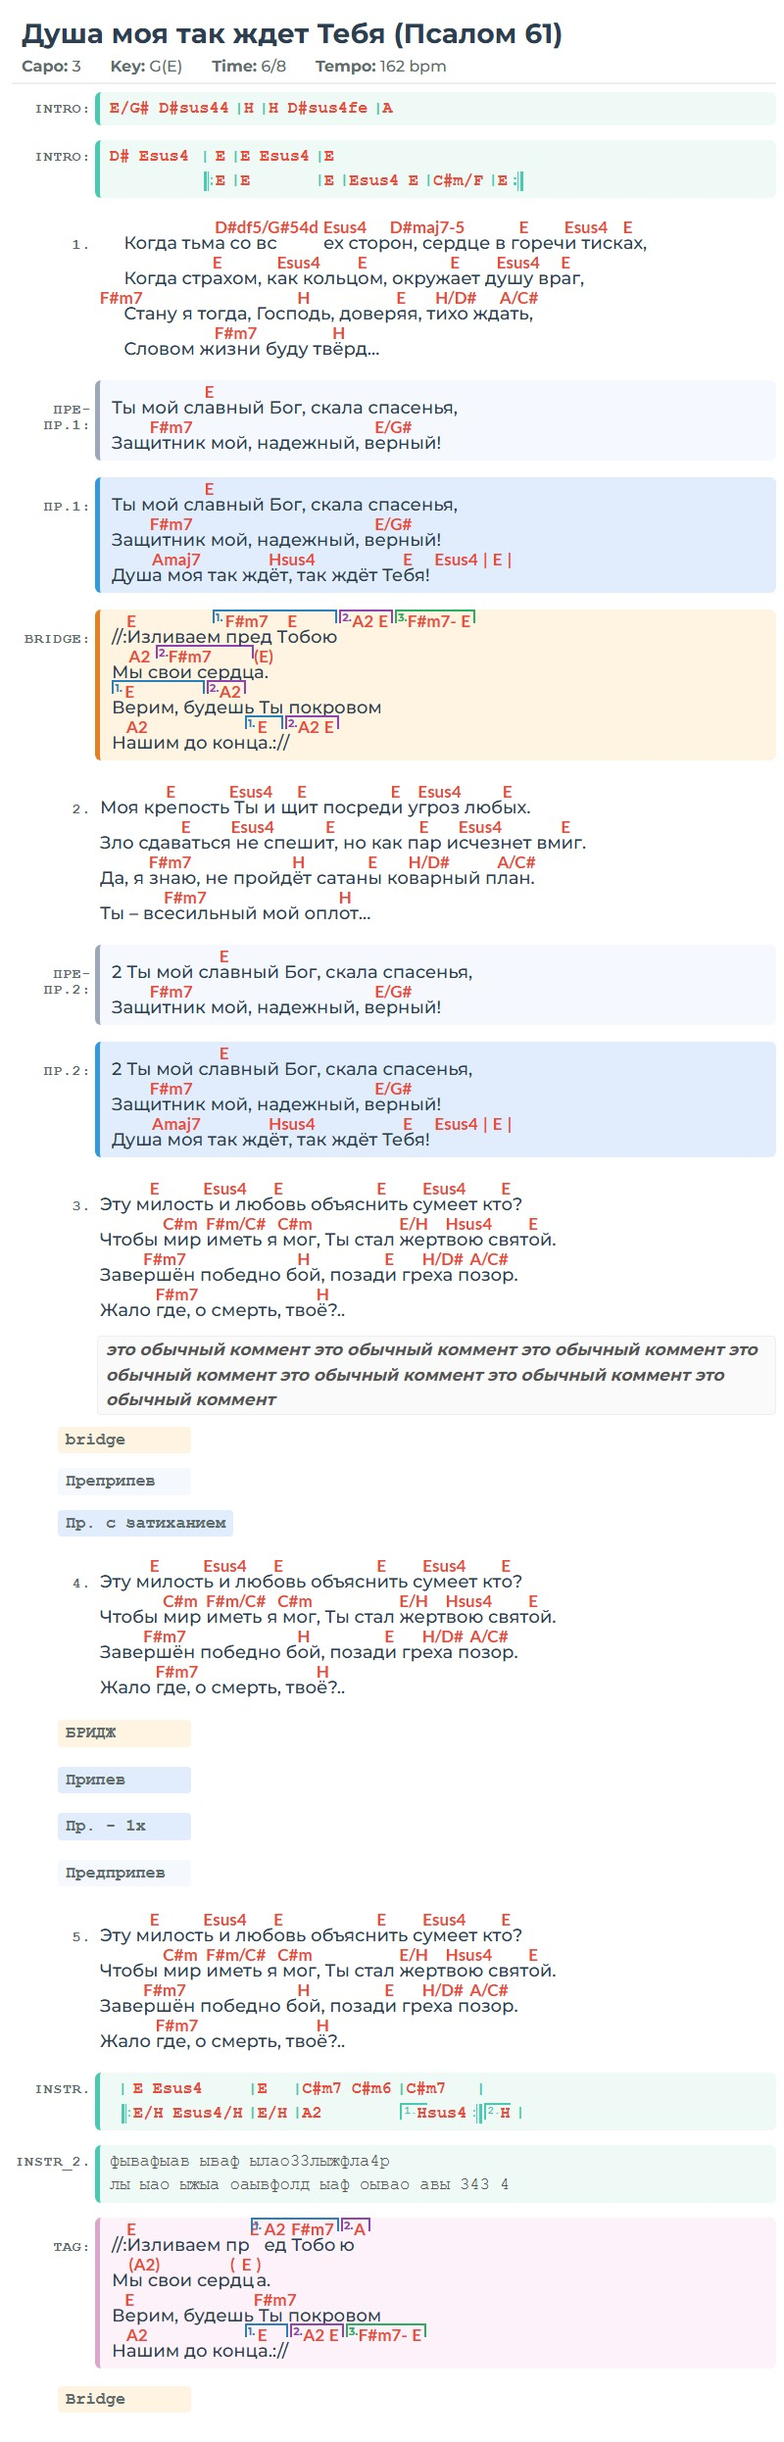
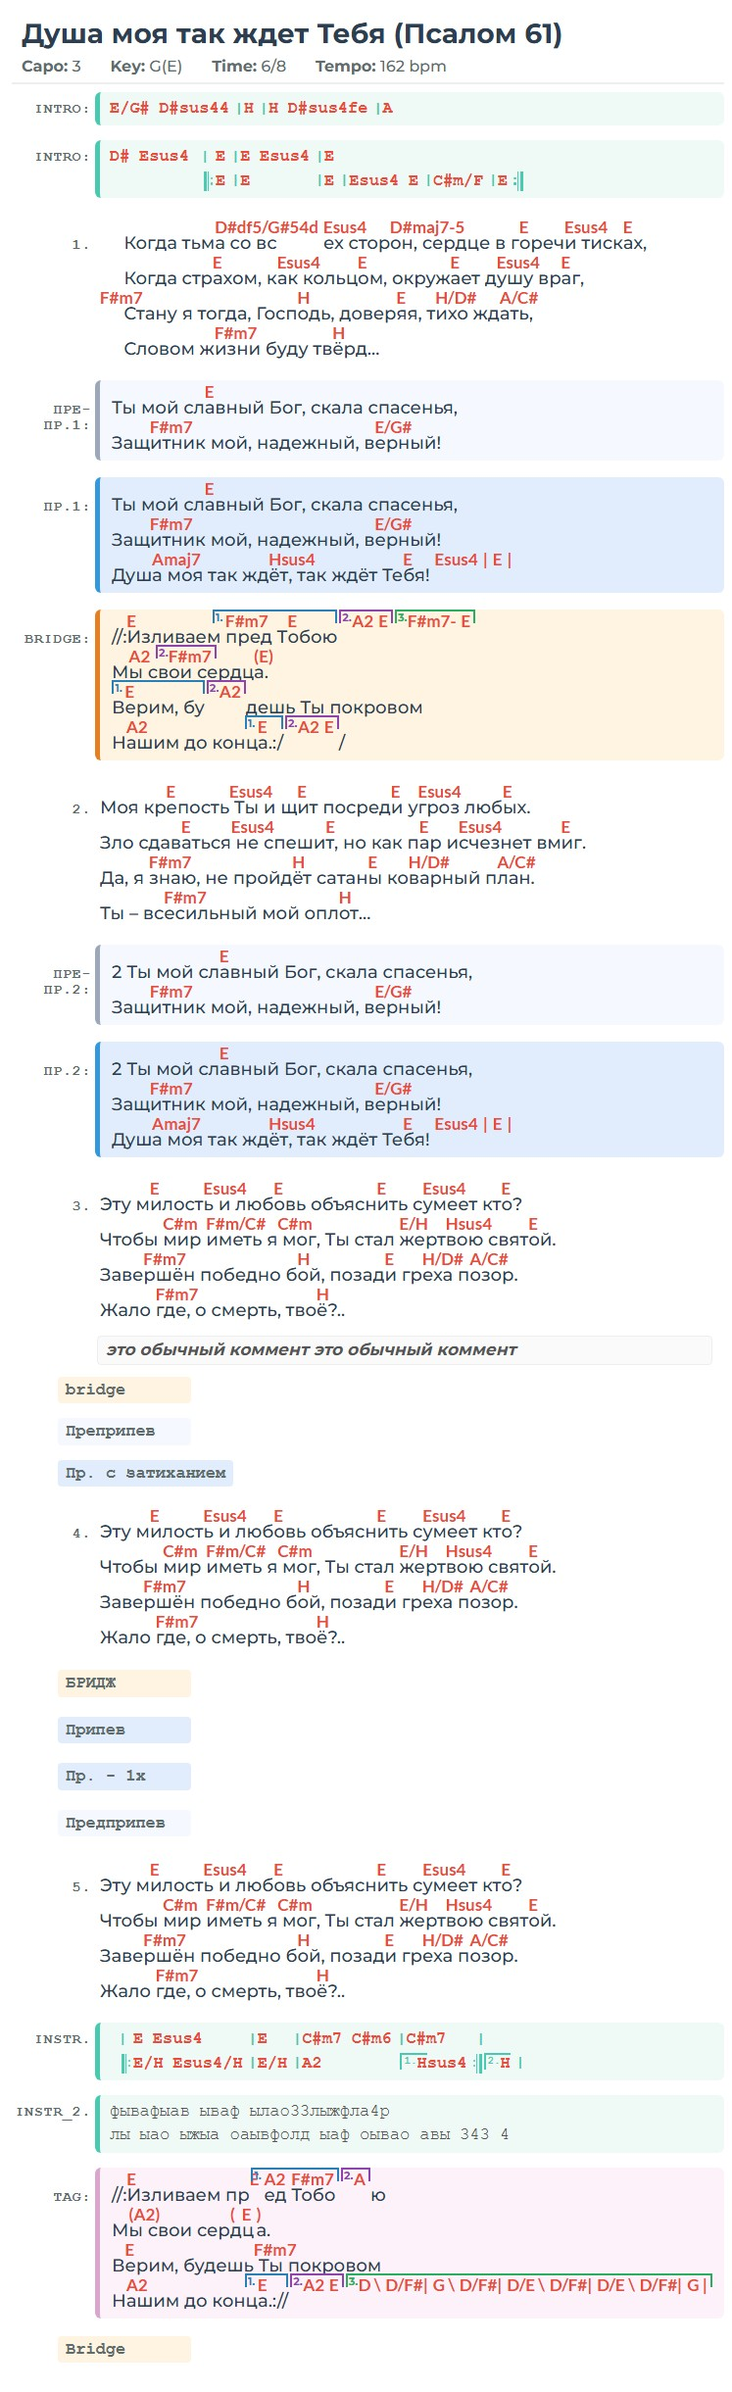
Переделал вольты. Добавил самостоятельные. И 2е не идут в конец.

diff --git a/output_jpg/Душа моя так ждёт Тебя.chordpro.html b/output_jpg/Душа моя так ждёт Тебя.chordpro.html
@@ -743,13 +743,15 @@
                             
                                 
                                     
-                                        <span class="volta-span volta-1">
-                                            <span class="volta-number">1.</span>
-                                            
-                                                <span class="chord-wrapper"><span class="chord">F#m7</span><span class="lyrics">пред Т</span></span>
-                                            
-                                                <span class="chord-wrapper"><span class="chord">E</span><span class="lyrics">обою</span></span>
-                                            
+                                        <span class="volta-flow">
+                                            <span class="volta-span volta-1">
+                                                <span class="volta-number">1.</span>
+                                                
+                                                    <span class="chord-wrapper"><span class="chord">F#m7</span><span class="lyrics">пред Т</span></span>
+                                                
+                                                    <span class="chord-wrapper"><span class="chord">E</span><span class="lyrics">обою</span></span>
+                                                
+                                            </span>
 
                                             
                                                 <span class="volta-stack">
@@ -829,12 +831,11 @@
                             
                                 
                                     
-                                        <span class="volta-span volta-2">
+                                        
+                                        <span class="volta-span volta-2 standalone">
                                             <span class="volta-number">2.</span>
                                             
-                                                <span class="chord-wrapper"><span class="chord">F#m7</span><span class="lyrics">ои сердц</span></span>
-                                            
-
+                                                <span class="chord-wrapper"><span class="chord standalone-head-chord">F#m7</span><span class="lyrics">ои сердц</span></span>
                                             
                                         </span>
                                     
@@ -857,11 +858,13 @@
                             
                                 
                                     
-                                        <span class="volta-span volta-1">
-                                            <span class="volta-number">1.</span>
-                                            
-                                                <span class="chord-wrapper"><span class="chord">E</span><span class="lyrics">ерим, бу</span></span>
-                                            
+                                        <span class="volta-flow">
+                                            <span class="volta-span volta-1">
+                                                <span class="volta-number">1.</span>
+                                                
+                                                    <span class="chord-wrapper"><span class="chord">E</span><span class="lyrics">ерим, бу</span></span>
+                                                
+                                            </span>
 
                                             
                                                 <span class="volta-stack">
@@ -913,11 +916,13 @@
                             
                                 
                                     
-                                        <span class="volta-span volta-1">
-                                            <span class="volta-number">1.</span>
-                                            
-                                                <span class="chord-wrapper"><span class="chord">E</span><span class="lyrics">а.:/</span></span>
-                                            
+                                        <span class="volta-flow">
+                                            <span class="volta-span volta-1">
+                                                <span class="volta-number">1.</span>
+                                                
+                                                    <span class="chord-wrapper"><span class="chord">E</span><span class="lyrics">а.:/</span></span>
+                                                
+                                            </span>
 
                                             
                                                 <span class="volta-stack">
@@ -1397,7 +1402,7 @@
                                 <div class="line comment">
                             
                                 
-                                    <span class="chord-wrapper"><span class="lyrics">это обычный коммент это обычный коммент это обычный коммент это обычный коммент это обычный коммент это обычный коммент это обычный коммент</span></span>
+                                    <span class="chord-wrapper"><span class="lyrics">это обычный коммент это обычный коммент</span></span>
                                 
                             
                                 </div>
@@ -2295,13 +2300,15 @@
                             
                                 
                                     
-                                        <span class="volta-span volta-1">
-                                            <span class="volta-number">1.</span>
-                                            
-                                                <span class="chord-wrapper"><span class="chord">A2</span><span class="lyrics">ед </span></span>
-                                            
-                                                <span class="chord-wrapper"><span class="chord">F#m7</span><span class="lyrics">Тобо</span></span>
-                                            
+                                        <span class="volta-flow">
+                                            <span class="volta-span volta-1">
+                                                <span class="volta-number">1.</span>
+                                                
+                                                    <span class="chord-wrapper"><span class="chord">A2</span><span class="lyrics">ед </span></span>
+                                                
+                                                    <span class="chord-wrapper"><span class="chord">F#m7</span><span class="lyrics">Тобо</span></span>
+                                                
+                                            </span>
 
                                             
                                                 <span class="volta-stack">
@@ -2399,11 +2406,13 @@
                             
                                 
                                     
-                                        <span class="volta-span volta-1">
-                                            <span class="volta-number">1.</span>
-                                            
-                                                <span class="chord-wrapper"><span class="chord">E</span><span class="lyrics">а.://</span></span>
-                                            
+                                        <span class="volta-flow">
+                                            <span class="volta-span volta-1">
+                                                <span class="volta-number">1.</span>
+                                                
+                                                    <span class="chord-wrapper"><span class="chord">E</span><span class="lyrics">а.://</span></span>
+                                                
+                                            </span>
 
                                             
                                                 <span class="volta-stack">
@@ -2420,9 +2429,23 @@
                                                         <span class="volta-span volta-3 in-stack">
                                                             <span class="volta-number">3.</span>
                                                             
-                                                                <span class="chord-wrapper"><span class="chord">F#m7-</span></span>
+                                                                <span class="chord-wrapper"><span class="chord">D \</span></span>
                                                             
-                                                                <span class="chord-wrapper"><span class="chord">E</span></span>
+                                                                <span class="chord-wrapper"><span class="chord">D/F#|</span></span>
+                                                            
+                                                                <span class="chord-wrapper"><span class="chord">G \</span></span>
+                                                            
+                                                                <span class="chord-wrapper"><span class="chord">D/F#|</span></span>
+                                                            
+                                                                <span class="chord-wrapper"><span class="chord">D/E \</span></span>
+                                                            
+                                                                <span class="chord-wrapper"><span class="chord">D/F#|</span></span>
+                                                            
+                                                                <span class="chord-wrapper"><span class="chord">D/E \</span></span>
+                                                            
+                                                                <span class="chord-wrapper"><span class="chord">D/F#|</span></span>
+                                                            
+                                                                <span class="chord-wrapper"><span class="chord">G |</span></span>
                                                             
                                                         </span>
                                                     
@@ -2454,6 +2477,20 @@
                                 
                                     
                                         
+                                        
+                                            <span class="chord-wrapper"><span class="lyrics"></span></span>
+                                        
+                                            <span class="chord-wrapper"><span class="lyrics"></span></span>
+                                        
+                                            <span class="chord-wrapper"><span class="lyrics"></span></span>
+                                        
+                                            <span class="chord-wrapper"><span class="lyrics"></span></span>
+                                        
+                                            <span class="chord-wrapper"><span class="lyrics"></span></span>
+                                        
+                                            <span class="chord-wrapper"><span class="lyrics"></span></span>
+                                        
+                                            <span class="chord-wrapper"><span class="lyrics"></span></span>
                                         
                                             <span class="chord-wrapper"><span class="lyrics"></span></span>
                                         

diff --git a/templates/song.html b/templates/song.html
@@ -148,11 +148,19 @@
                                                         </span>
                                                     {% endif %}
                                                 </span>
-                                            {% else %}
+                                            {% elif item.is_floating %}
                                                 {# Плавающая volta на исходной позиции — только текст #}
                                                 {% for part in item.parts %}
                                                     <span class="chord-wrapper"><span class="lyrics">{{ part.text }}</span></span>
                                                 {% endfor %}
+                                            {% else %}
+                                                {# Самостоятельная volta на своей позиции #}
+                                                <span class="volta-span volta-{{ item.number | replace('.', '-') }} standalone">
+                                                    <span class="volta-number">{{ item.number }}.</span>
+                                                    {% for part in item.parts %}
+                                                        <span class="chord-wrapper">{% if part.chord %}<span class="chord{% if loop.first %} standalone-head-chord{% endif %}">{{ part.chord }}</span>{% endif %}<span class="lyrics">{{ part.text }}</span></span>
+                                                    {% endfor %}
+                                                </span>
                                             {% endif %}
                                         {% else %}
                                             <span class="chord-wrapper">{% if item.chord %}<span class="chord">{% if item.volta %}<span class="grid-volta">{{ item.volta }}</span>{% endif %}{{ item.chord }}</span>{% endif %}<span class="lyrics">{{ item.text }}</span></span>
@@ -186,11 +194,19 @@
                                                 </span>
                                             {% endif %}
                                         </span>
-                                    {% else %}
+                                    {% elif item.is_floating %}
                                         {# Плавающая volta на исходной позиции — только текст #}
                                         {% for part in item.parts %}
                                             <span class="chord-wrapper"><span class="lyrics">{{ part.text }}</span></span>
                                         {% endfor %}
+                                    {% else %}
+                                        {# Самостоятельная volta на своей позиции #}
+                                        <span class="volta-span volta-{{ item.number | replace('.', '-') }} standalone">
+                                            <span class="volta-number">{{ item.number }}.</span>
+                                            {% for part in item.parts %}
+                                                <span class="chord-wrapper">{% if part.chord %}<span class="chord{% if loop.first %} standalone-head-chord{% endif %}">{{ part.chord }}</span>{% endif %}<span class="lyrics">{{ part.text }}</span></span>
+                                            {% endfor %}
+                                        </span>
                                     {% endif %}
                                 {% else %}
                                     <span class="chord-wrapper">{% if item.chord %}<span class="chord">{% if item.volta %}<span class="grid-volta">{{ item.volta }}</span>{% endif %}{{ item.chord }}</span>{% endif %}<span class="lyrics">{{ item.text }}</span></span>

diff --git a/styles/style.css b/styles/style.css
@@ -575,6 +575,32 @@ body {
     pointer-events: none;
     z-index: 0;
 }
+/* Для самостоятельной volta:
+   скобка должна ограничиваться шириной аккорда, а не всего слова. */
+.volta-span.standalone::before {
+    display: none;
+}
+.volta-span.standalone .chord-wrapper {
+    align-items: flex-start;
+}
+.volta-span.standalone .standalone-head-chord {
+    position: relative;
+    z-index: 1;
+}
+.volta-span.standalone .standalone-head-chord::before {
+    content: "";
+    position: absolute;
+    top: -2px;
+    left: -13px;
+    right: 0;
+    height: 12px;
+    border: 2px solid;
+    border-color: var(--volta-color, #7f8c8d);
+    border-bottom: 0;
+    border-width: 2px 2px 0 2px;
+    pointer-events: none;
+    z-index: 0;
+}
 .volta-number {
     position: absolute;
     width: 0;

diff --git a/chordpro_to_jpg.py b/chordpro_to_jpg.py
@@ -298,29 +298,84 @@ def build_sections_data(song):
 
                 lines_data.append({"grid_cells": cells_data, "is_comment": False})
             else:
-                # Найти voltas в строке для логики стека
-                line_voltas = [
-                    p
-                    for p in line.parts
+                # Классификация voltas в строке:
+                # - anchor только для локальной пары 1. -> 2.
+                # - остальные volta-группы рендерятся самостоятельно на своей позиции
+                volta_entries = [
+                    (idx, p)
+                    for idx, p in enumerate(line.parts)
                     if hasattr(p, "is_volta_group") and p.is_volta_group
                 ]
+                volta_roles = {}
+
+                def _normalize_volta_number(num):
+                    return str(num).strip().rstrip(".")
+
+                i = 0
+                while i < len(volta_entries):
+                    curr_idx, curr_part = volta_entries[i]
+                    curr_num = _normalize_volta_number(curr_part.number)
+
+                    if i + 1 < len(volta_entries):
+                        next_idx, next_part = volta_entries[i + 1]
+                        next_num = _normalize_volta_number(next_part.number)
+                        if curr_num == "1" and next_num == "2":
+                            trailing_siblings = [next_part]
+                            volta_roles[curr_idx] = {
+                                "is_anchor": True,
+                                "is_floating": False,
+                                "floating_siblings": trailing_siblings,
+                            }
+                            volta_roles[next_idx] = {
+                                "is_anchor": False,
+                                "is_floating": True,
+                                "floating_siblings": [],
+                            }
+
+                            # 3-я и все последующие (до следующей 1-й) идут тем же "паровозиком"
+                            j = i + 2
+                            while j < len(volta_entries):
+                                sib_idx, sib_part = volta_entries[j]
+                                sib_num = _normalize_volta_number(sib_part.number)
+                                if sib_num == "1":
+                                    break
+                                trailing_siblings.append(sib_part)
+                                volta_roles[sib_idx] = {
+                                    "is_anchor": False,
+                                    "is_floating": True,
+                                    "floating_siblings": [],
+                                }
+                                j += 1
+
+                            i = j
+                            continue
+
+                    volta_roles[curr_idx] = {
+                        "is_anchor": False,
+                        "is_floating": False,
+                        "floating_siblings": [],
+                    }
+                    i += 1
 
                 parts_data = []
-                v_idx = 0
-                for part in line.parts:
+                for part_idx, part in enumerate(line.parts):
                     if hasattr(part, "is_volta_group") and part.is_volta_group:
-                        is_anchor = v_idx == 0
-                        is_floating = v_idx > 0
-                        siblings = line_voltas[1:] if is_anchor else []
+                        role = volta_roles.get(
+                            part_idx,
+                            {
+                                "is_anchor": False,
+                                "is_floating": False,
+                                "floating_siblings": [],
+                            },
+                        )
                         parts_data.append(
                             serialize_item(
                                 part,
-                                is_anchor=is_anchor,
-                                is_floating=is_floating,
-                                floating_siblings=siblings,
+                                is_anchor=role["is_anchor"],
+                                is_floating=role["is_floating"],
+                                floating_siblings=role["floating_siblings"],
                             )
                         )
-                        v_idx += 1
                     else:
                         parts_data.append(serialize_item(part))
 
